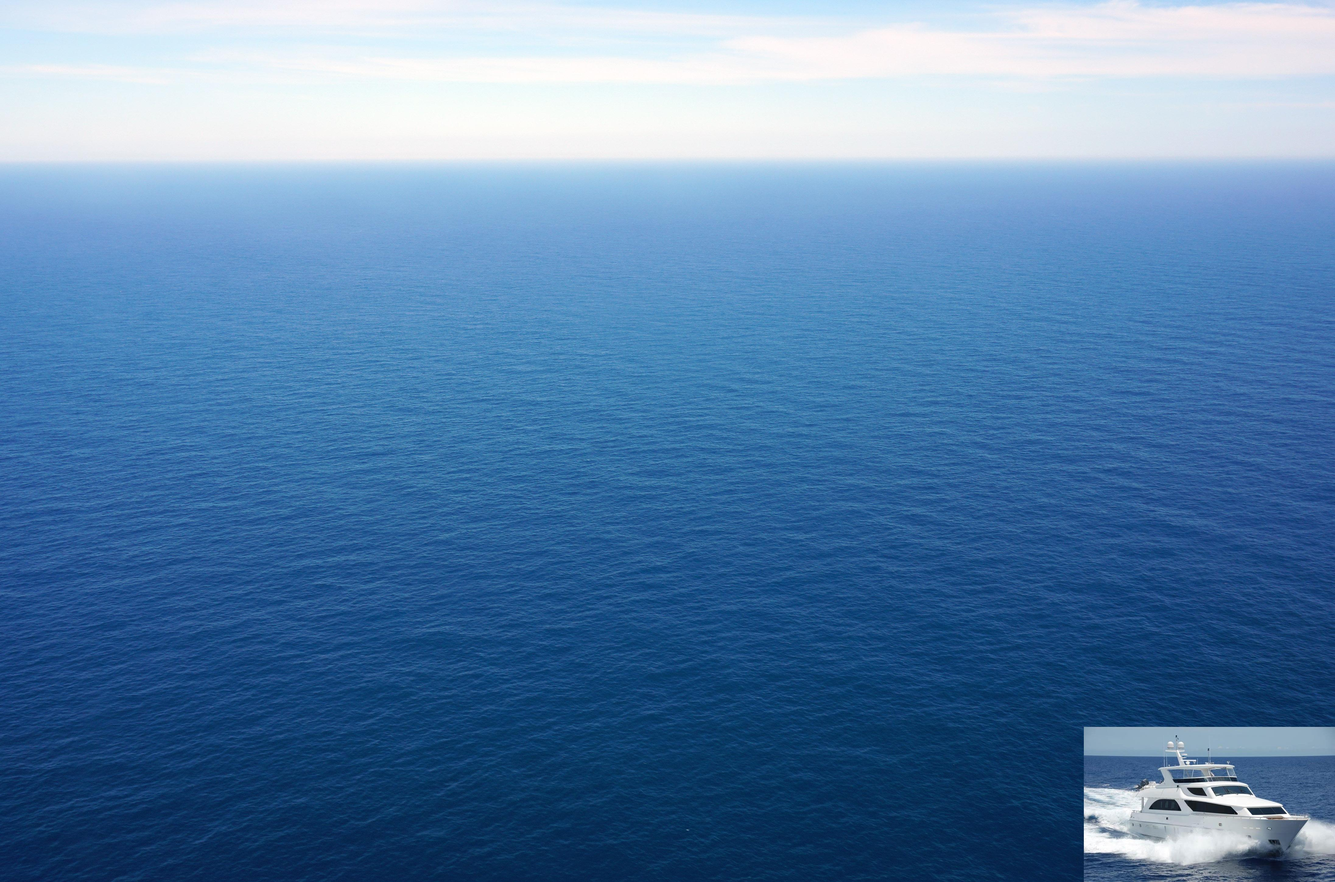
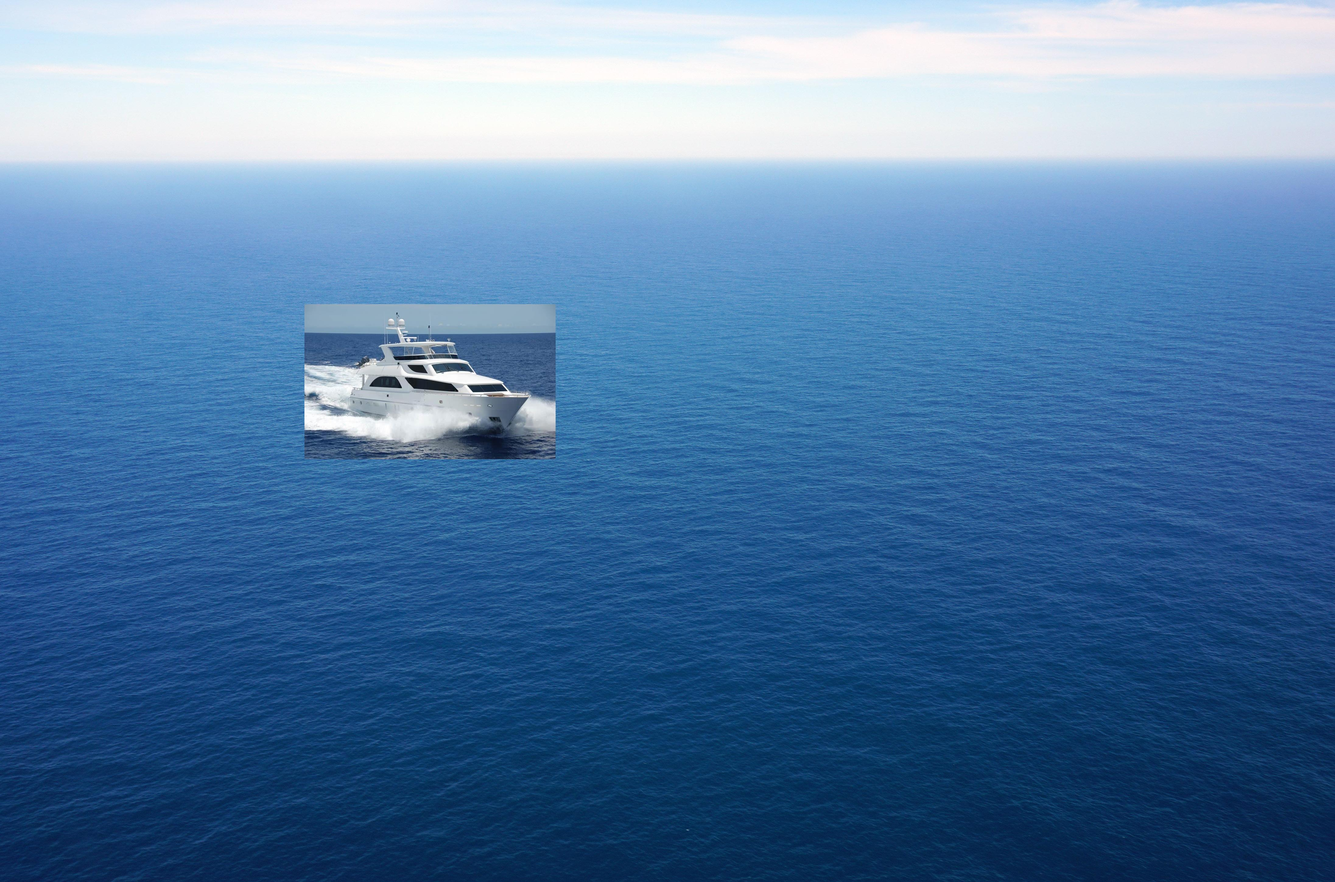
boat coords

Changed region(s): [[0.8123, 0.8069, 1.0, 1.0], [0.2187, 0.3414, 0.4374, 0.5276]]

diff --git a/bonus_assignment.py b/bonus_assignment.py
@@ -17,7 +17,7 @@ from PIL import Image
 BeachImage = Image.open('test.jpeg')
 BoatImage = Image.open('boat.jpeg')
 copy_image = BeachImage.copy()
-position = ((copy_image.width - BoatImage.width), (copy_image.height - BoatImage.height))
+position = (1000,1000)
 copy_image.paste(BoatImage, position)
 copy_image.save('pasted_image.jpeg')
 copy_image.show()
